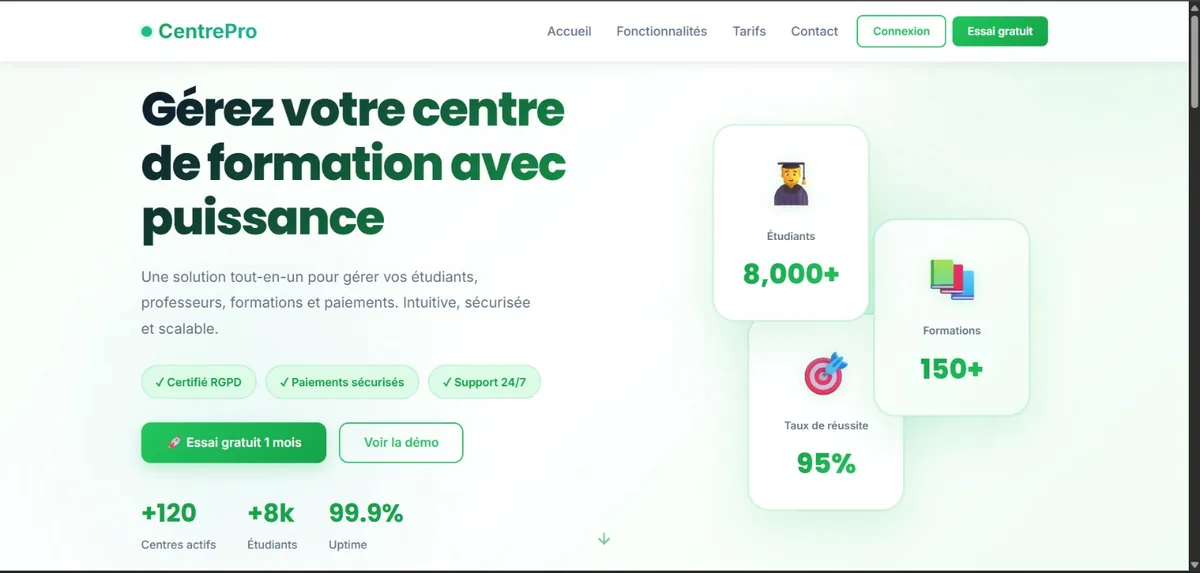
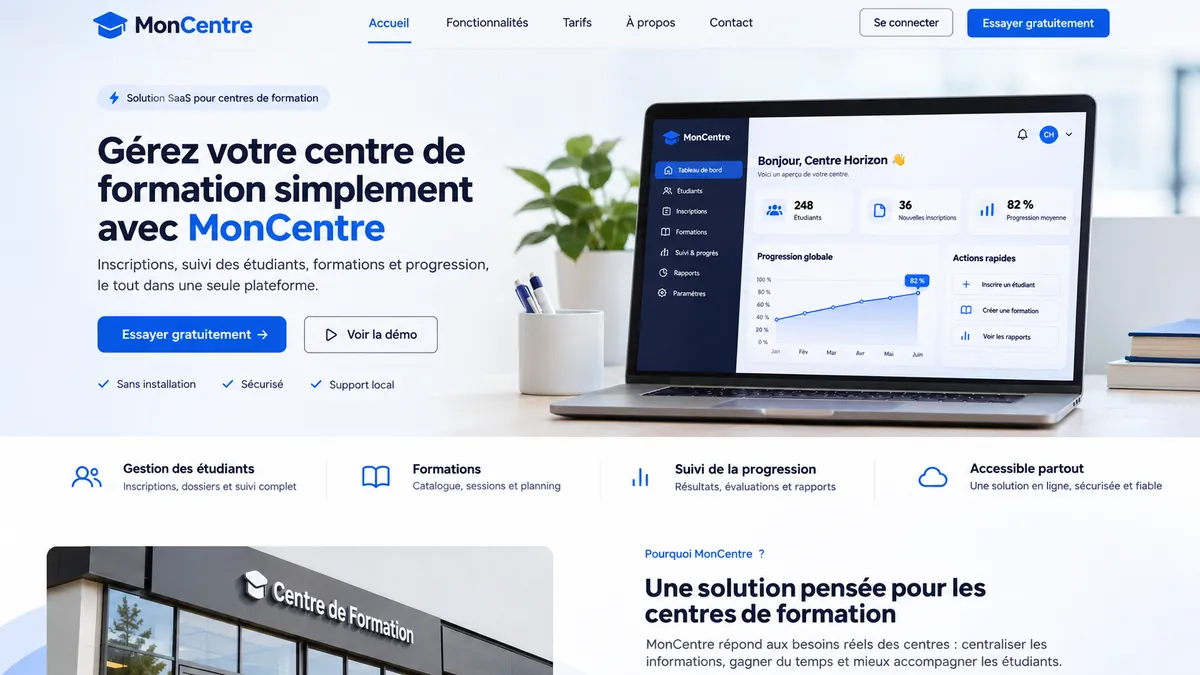
Refactor code structure for improved readability and maintainability

diff --git a/src/data/projects.js b/src/data/projects.js
@@ -1,3 +1,4 @@
+import cmcScheduleManager from '../assets/Project/cmc-schedule-manager.webp';
 import cssbattleApi from '../assets/Project/cssbattle-api.webp';
 import digiplan from '../assets/Project/digiplan.webp';
 import digistock from '../assets/Project/digistock.webp';
@@ -132,16 +133,17 @@ export const projects = [
     links: { live: 'https://moncentre.app' },
   },
   {
-    slug: 'web-ecommerce',
-    title: 'Web E-commerce',
+    slug: 'cmc-schedule-manager',
+    title: 'CMC Schedule Manager',
     type: 'Full-stack app',
-    summary: 'Marketplace for buyers and sellers with product listings, cart, orders and role-based dashboards.',
-    why: 'An end-to-end exercise in auth, roles and transactional flows on a real-world use case.',
-    role: 'Built the React front end and the Node.js / Express API with JWT auth and MySQL.',
+    summary:
+      'Timetable management platform for the CMC training centres: weekly and monthly schedules, rooms, groups, modules and hours tracking per trainer.',
+    why: 'Timetables were built by hand and shared as PDFs, with no easy way to see how many hours of each module were planned, left or exceeded.',
+    role: 'Built the Laravel REST API and the Nuxt 3 front end, with role-based spaces for DOSI, directors, heads of department and trainers, Excel import/export and downloadable timetables.',
     result: 'Open source on GitHub.',
-    tags: ['React', 'GSAP', 'React Router', 'Node.js', 'Express', 'JWT', 'MySQL'],
-    image: webEcommerce,
-    links: { code: 'https://github.com/ydxj/webEcommerce' },
+    tags: ['Nuxt 3', 'Vue 3', 'Laravel', 'PHP', 'REST API'],
+    image: cmcScheduleManager,
+    links: { code: 'https://github.com/ydxj/CMC-project' },
   },
   {
     slug: 'onetask',
@@ -178,6 +180,18 @@ export const projects = [
     tags: ['React', 'CSS'],
     image: orgaspace,
     links: { code: 'https://github.com/ydxj/ecommerce-website' },
+  },
+  {
+    slug: 'web-ecommerce',
+    title: 'Web E-commerce',
+    type: 'Full-stack app',
+    summary: 'Marketplace for buyers and sellers with product listings, cart, orders and role-based dashboards.',
+    why: 'An end-to-end exercise in auth, roles and transactional flows on a real-world use case.',
+    role: 'Built the React front end and the Node.js / Express API with JWT auth and MySQL.',
+    result: 'Open source on GitHub.',
+    tags: ['React', 'GSAP', 'React Router', 'Node.js', 'Express', 'JWT', 'MySQL'],
+    image: webEcommerce,
+    links: { code: 'https://github.com/ydxj/webEcommerce' },
   },
 ];
 
